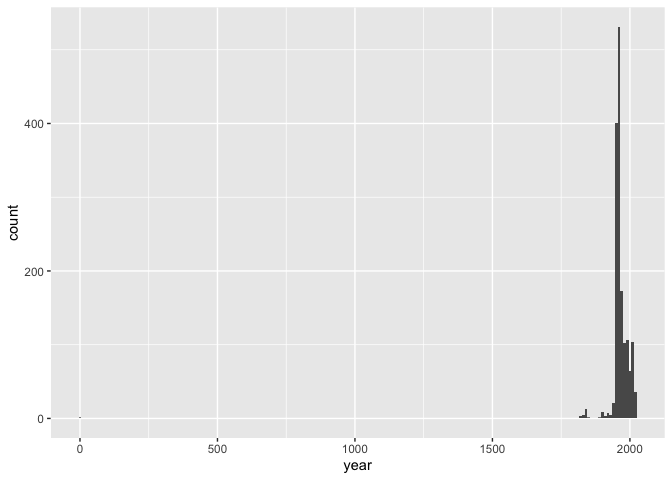
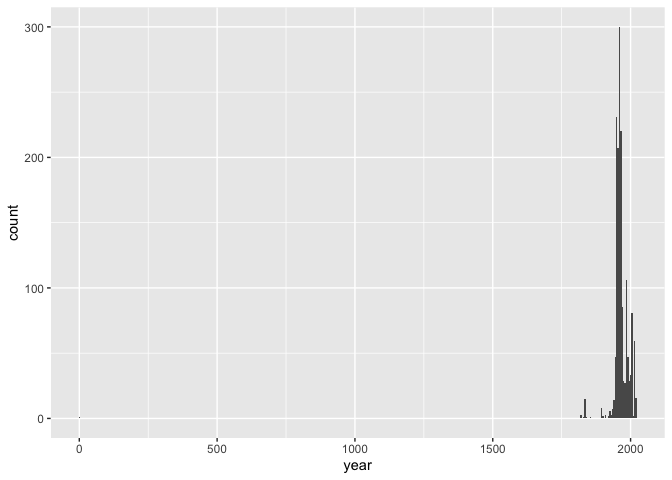
Finished!

diff --git a/lab-08.md b/lab-08.md
@@ -1,7 +1,7 @@
 Lab 08 - University of Edinburgh Art Collection
 ================
 Lindsey Wilson
-4/20/23
+4/21/23
 
 ### Load packages and data
 
@@ -42,7 +42,7 @@ they all either indicate 1.) that there was extra information in the
 string we aren’t concerned about capturing, or. 2.) that there were no
 parentheses at all in the string so there wasn’t any date to capture.
 
-### Exercise 12
+### Exercise 11
 
 Let’s skim our data:
 
@@ -81,15 +81,117 @@ Data summary
 As we can see here, there are 115 pieces with artist info missing and
 1431 pieces with year information missing.
 
-### Exercise 13
+### Exercise 12
 
 ``` r
 ggplot(uoe_art, aes(x = year)) +
-  geom_histogram(binwidth = 10)
+  geom_histogram(binwidth = 5)
 ```
 
     ## Warning: Removed 1431 rows containing non-finite values (`stat_bin()`).
 
 ![](lab-08_files/figure-gfm/histogram-1.png)<!-- -->
 
-Add exercise headings as needed.
+It looks like we have one data point with a `year` value of 2, which
+causes the scaling issue on the x-axis. Filtering that piece out should
+fix the problem:
+
+``` r
+uoe_art %>%
+  filter(year > 5) %>%
+  ggplot(aes(x = year)) +
+  geom_histogram(binwidth = 5)
+```
+
+![](lab-08_files/figure-gfm/histogram2-1.png)<!-- -->
+
+### Exercise 13
+
+The title of the out of ordinary piece is “Death Mask (2) (1964)”.
+Therefore, it looks like what happened is that our code split the title
+on the first opening parenthesis, and threw away the data after the
+first closing parenthesis. This captured the “2”, but resulted in the
+“1964” being thrown away.
+
+I’ve fixed the issue below. If I did it right, the new histogram should
+look essentially just like the old one but without having to do any
+filtering first:
+
+``` r
+uoe_art <-  uoe_art %>%
+  mutate(year = if_else(link == "https://collections.ed.ac.uk/art/record/21649?highlight=*:*",
+                        1964,
+                        uoe_art$year,
+                        missing = NULL))
+
+ggplot(uoe_art, aes(x = year)) +
+  geom_histogram(binwidth = 5)
+```
+
+    ## Warning: Removed 1431 rows containing non-finite values (`stat_bin()`).
+
+![](lab-08_files/figure-gfm/corrected-visualization-1.png)<!-- -->
+
+### Exercise 14
+
+Next we want to know who the most commonly featured artist in the
+collection is. Generating a frequency table should let us answer that
+question:
+
+``` r
+freq <- table(uoe_art$artist) %>%
+  sort(decreasing = TRUE) %>%
+  data.frame()
+
+head(freq)
+```
+
+    ##               Var1 Freq
+    ## 1          Unknown  357
+    ## 2     Emma Gillies  177
+    ## 3     John Bellany   22
+    ## 4       Ann F Ward   19
+    ## 5      Boris Bućan   17
+    ## 6 Marjorie Wallace   17
+
+It looks like (besides Unknown), Emma Gillies is the most commonly
+represented artist in the collection, with 177 pieces. This makes sense
+after some Googling: Gillies is from Edinburgh, and has had an exhibit
+of her work featured at the University of Edinburgh library.
+
+### Exercise 15
+
+Let’s see how many exhibits contain the word “Child” in the title:
+
+``` r
+#create a vector containing whether or not each item has "child" in title
+child <- uoe_art$title %>%
+  str_detect("(?i)child") %>%
+  as.vector()
+
+# mutate uoe_art to add above vector as a column
+uoe_art <- uoe_art %>%
+  mutate(child_in_title = child)
+
+#filter uoe_art and count the rows that make it through filter
+uoe_art %>%
+  filter(child_in_title == TRUE)
+```
+
+    ## # A tibble: 11 × 5
+    ##    title                                              artist  year link  child…¹
+    ##    <chr>                                              <chr>  <dbl> <chr> <lgl>  
+    ##  1 "Child's collar. Chinese"                          Unkno…    NA http… TRUE   
+    ##  2 "Untitled - Children Playing "                     Monik…  1963 http… TRUE   
+    ##  3 "Virgin and Child"                                 Unkno…    NA http… TRUE   
+    ##  4 "Virgin and Child "                                Unkno…    NA http… TRUE   
+    ##  5 "The Children's Hour "                             Eduar…    NA http… TRUE   
+    ##  6 "Figure Composition with Nurse and Child, and Wom… Edwar…    NA http… TRUE   
+    ##  7 "Child's chinese headdress"                        Unkno…    NA http… TRUE   
+    ##  8 "Woman with Child and Still Life "                 Cathe…  1938 http… TRUE   
+    ##  9 "Virgin and Child "                                Unkno…    NA http… TRUE   
+    ## 10 "Untitled - Portrait of a Woman and Child "        Willi…    NA http… TRUE   
+    ## 11 "The Sun Dissolves while Man Looks Away from the … Eduar…    NA http… TRUE   
+    ## # … with abbreviated variable name ¹child_in_title
+
+It looks like there are 11 items with “child” in the title!
